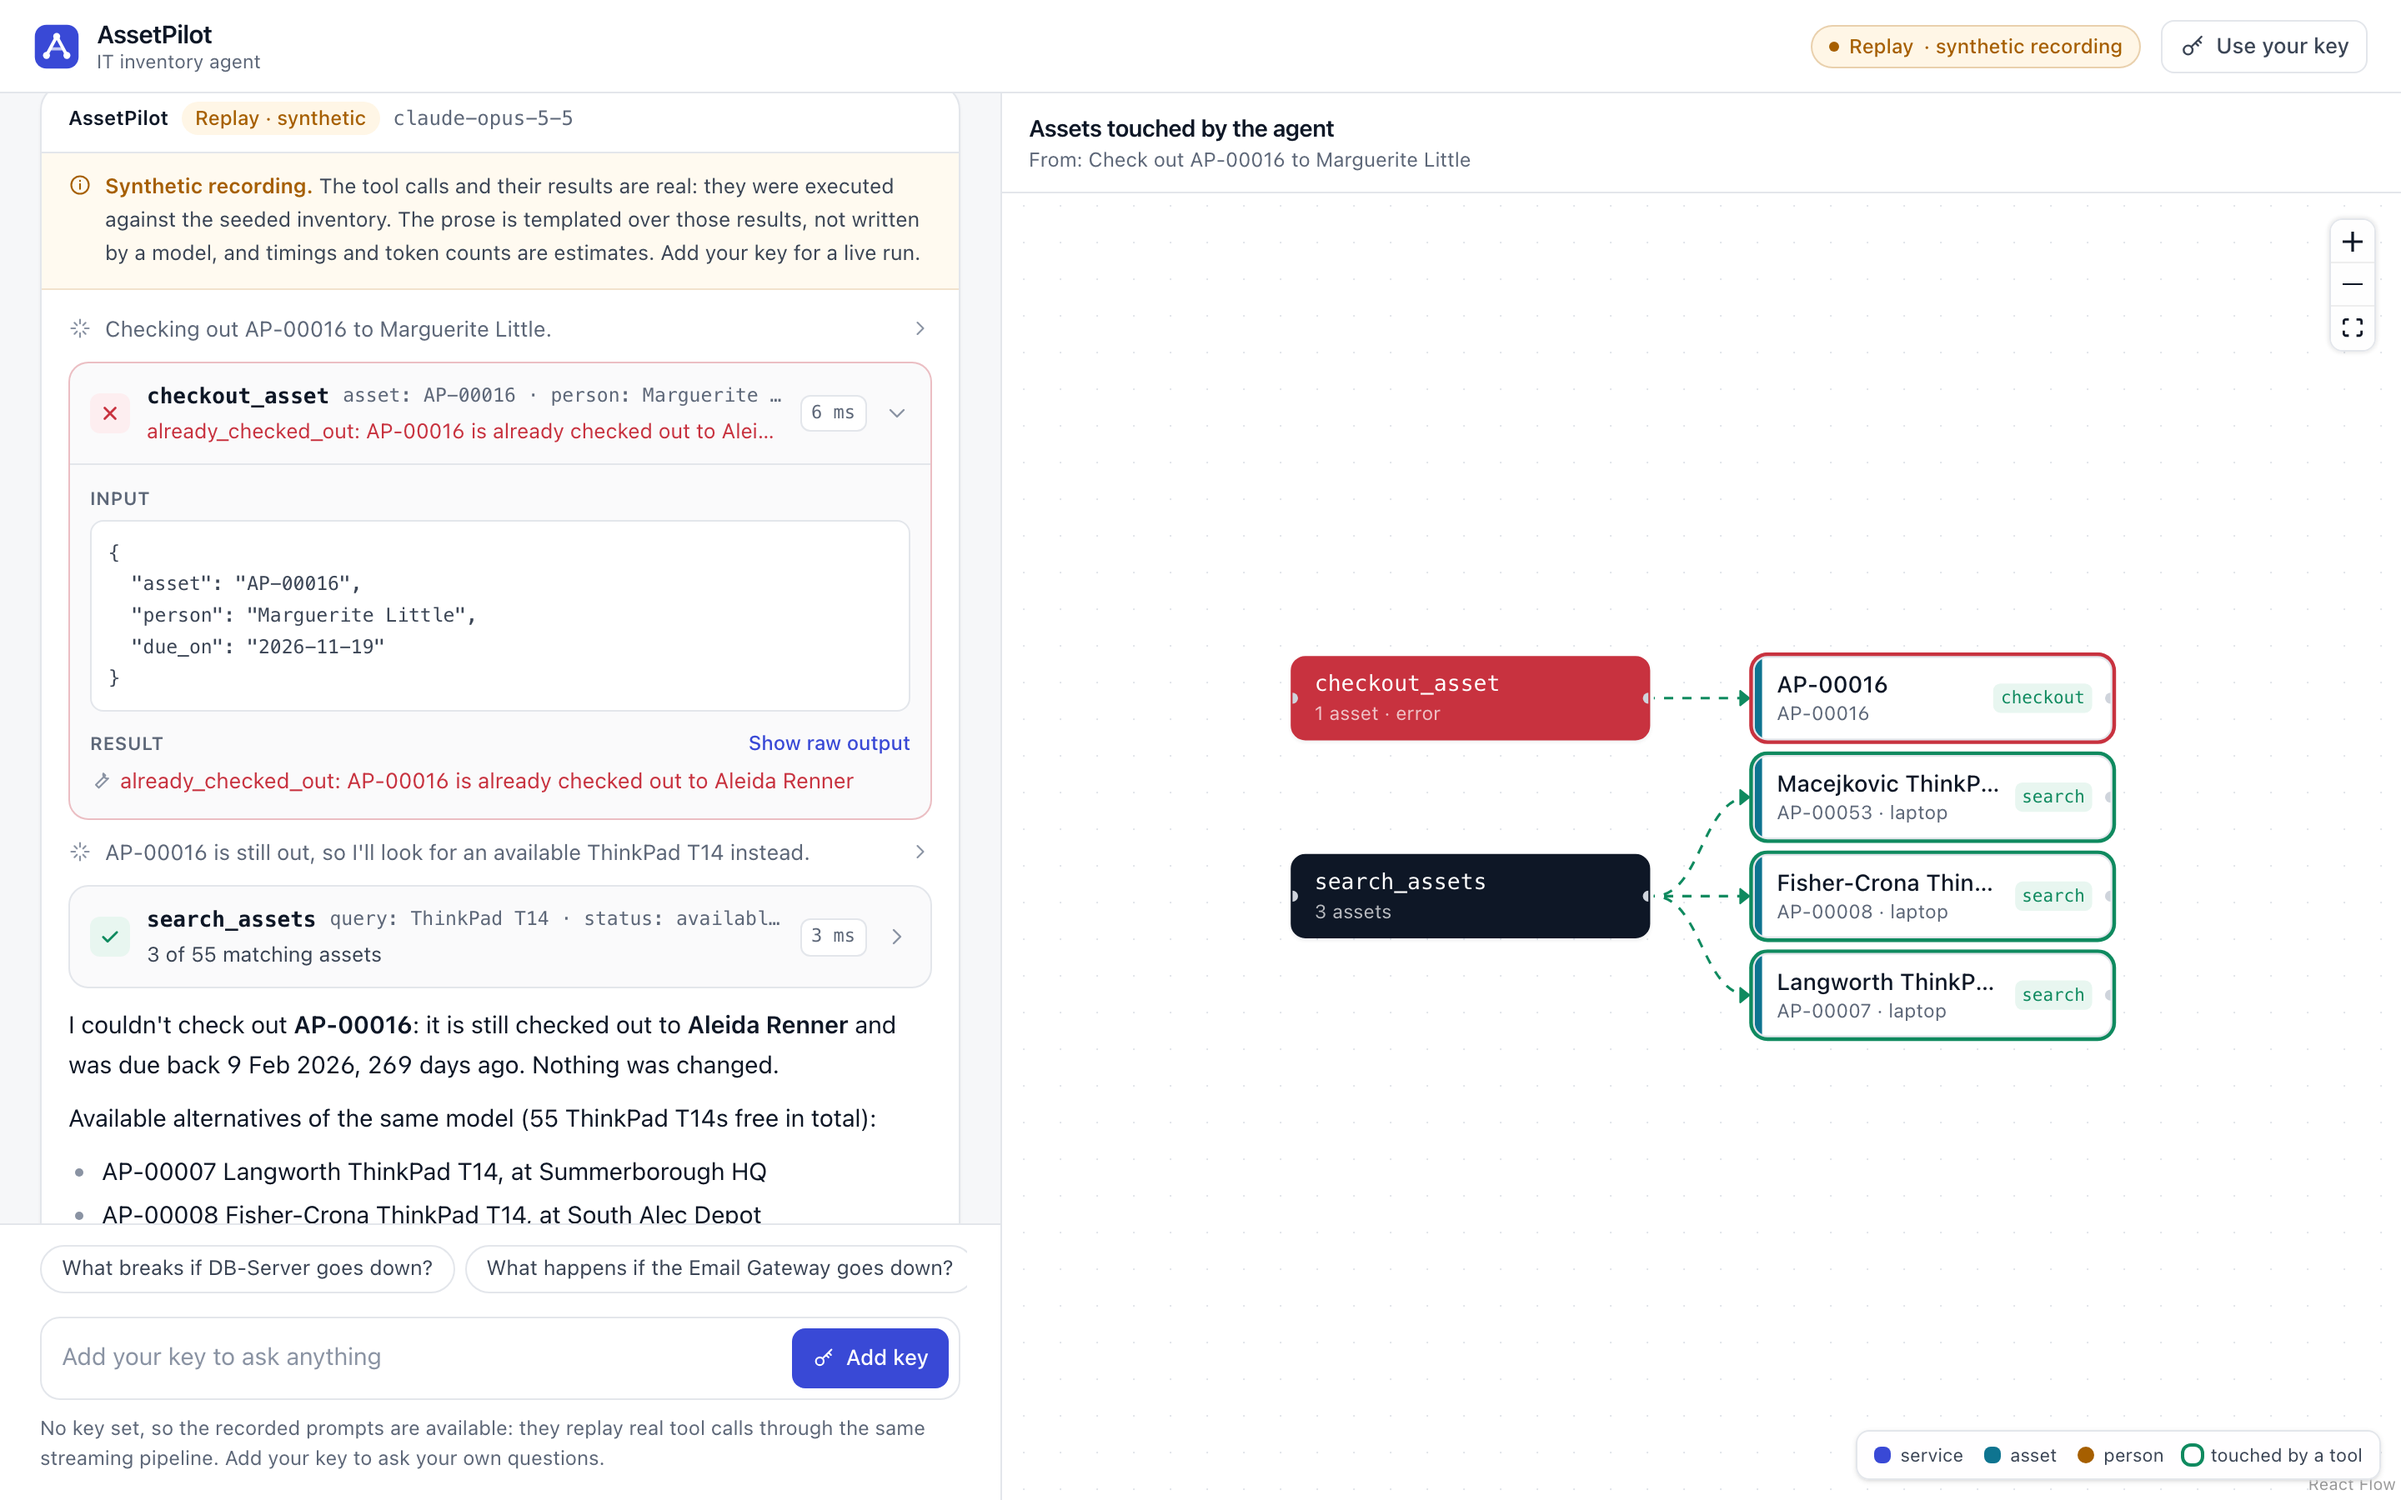
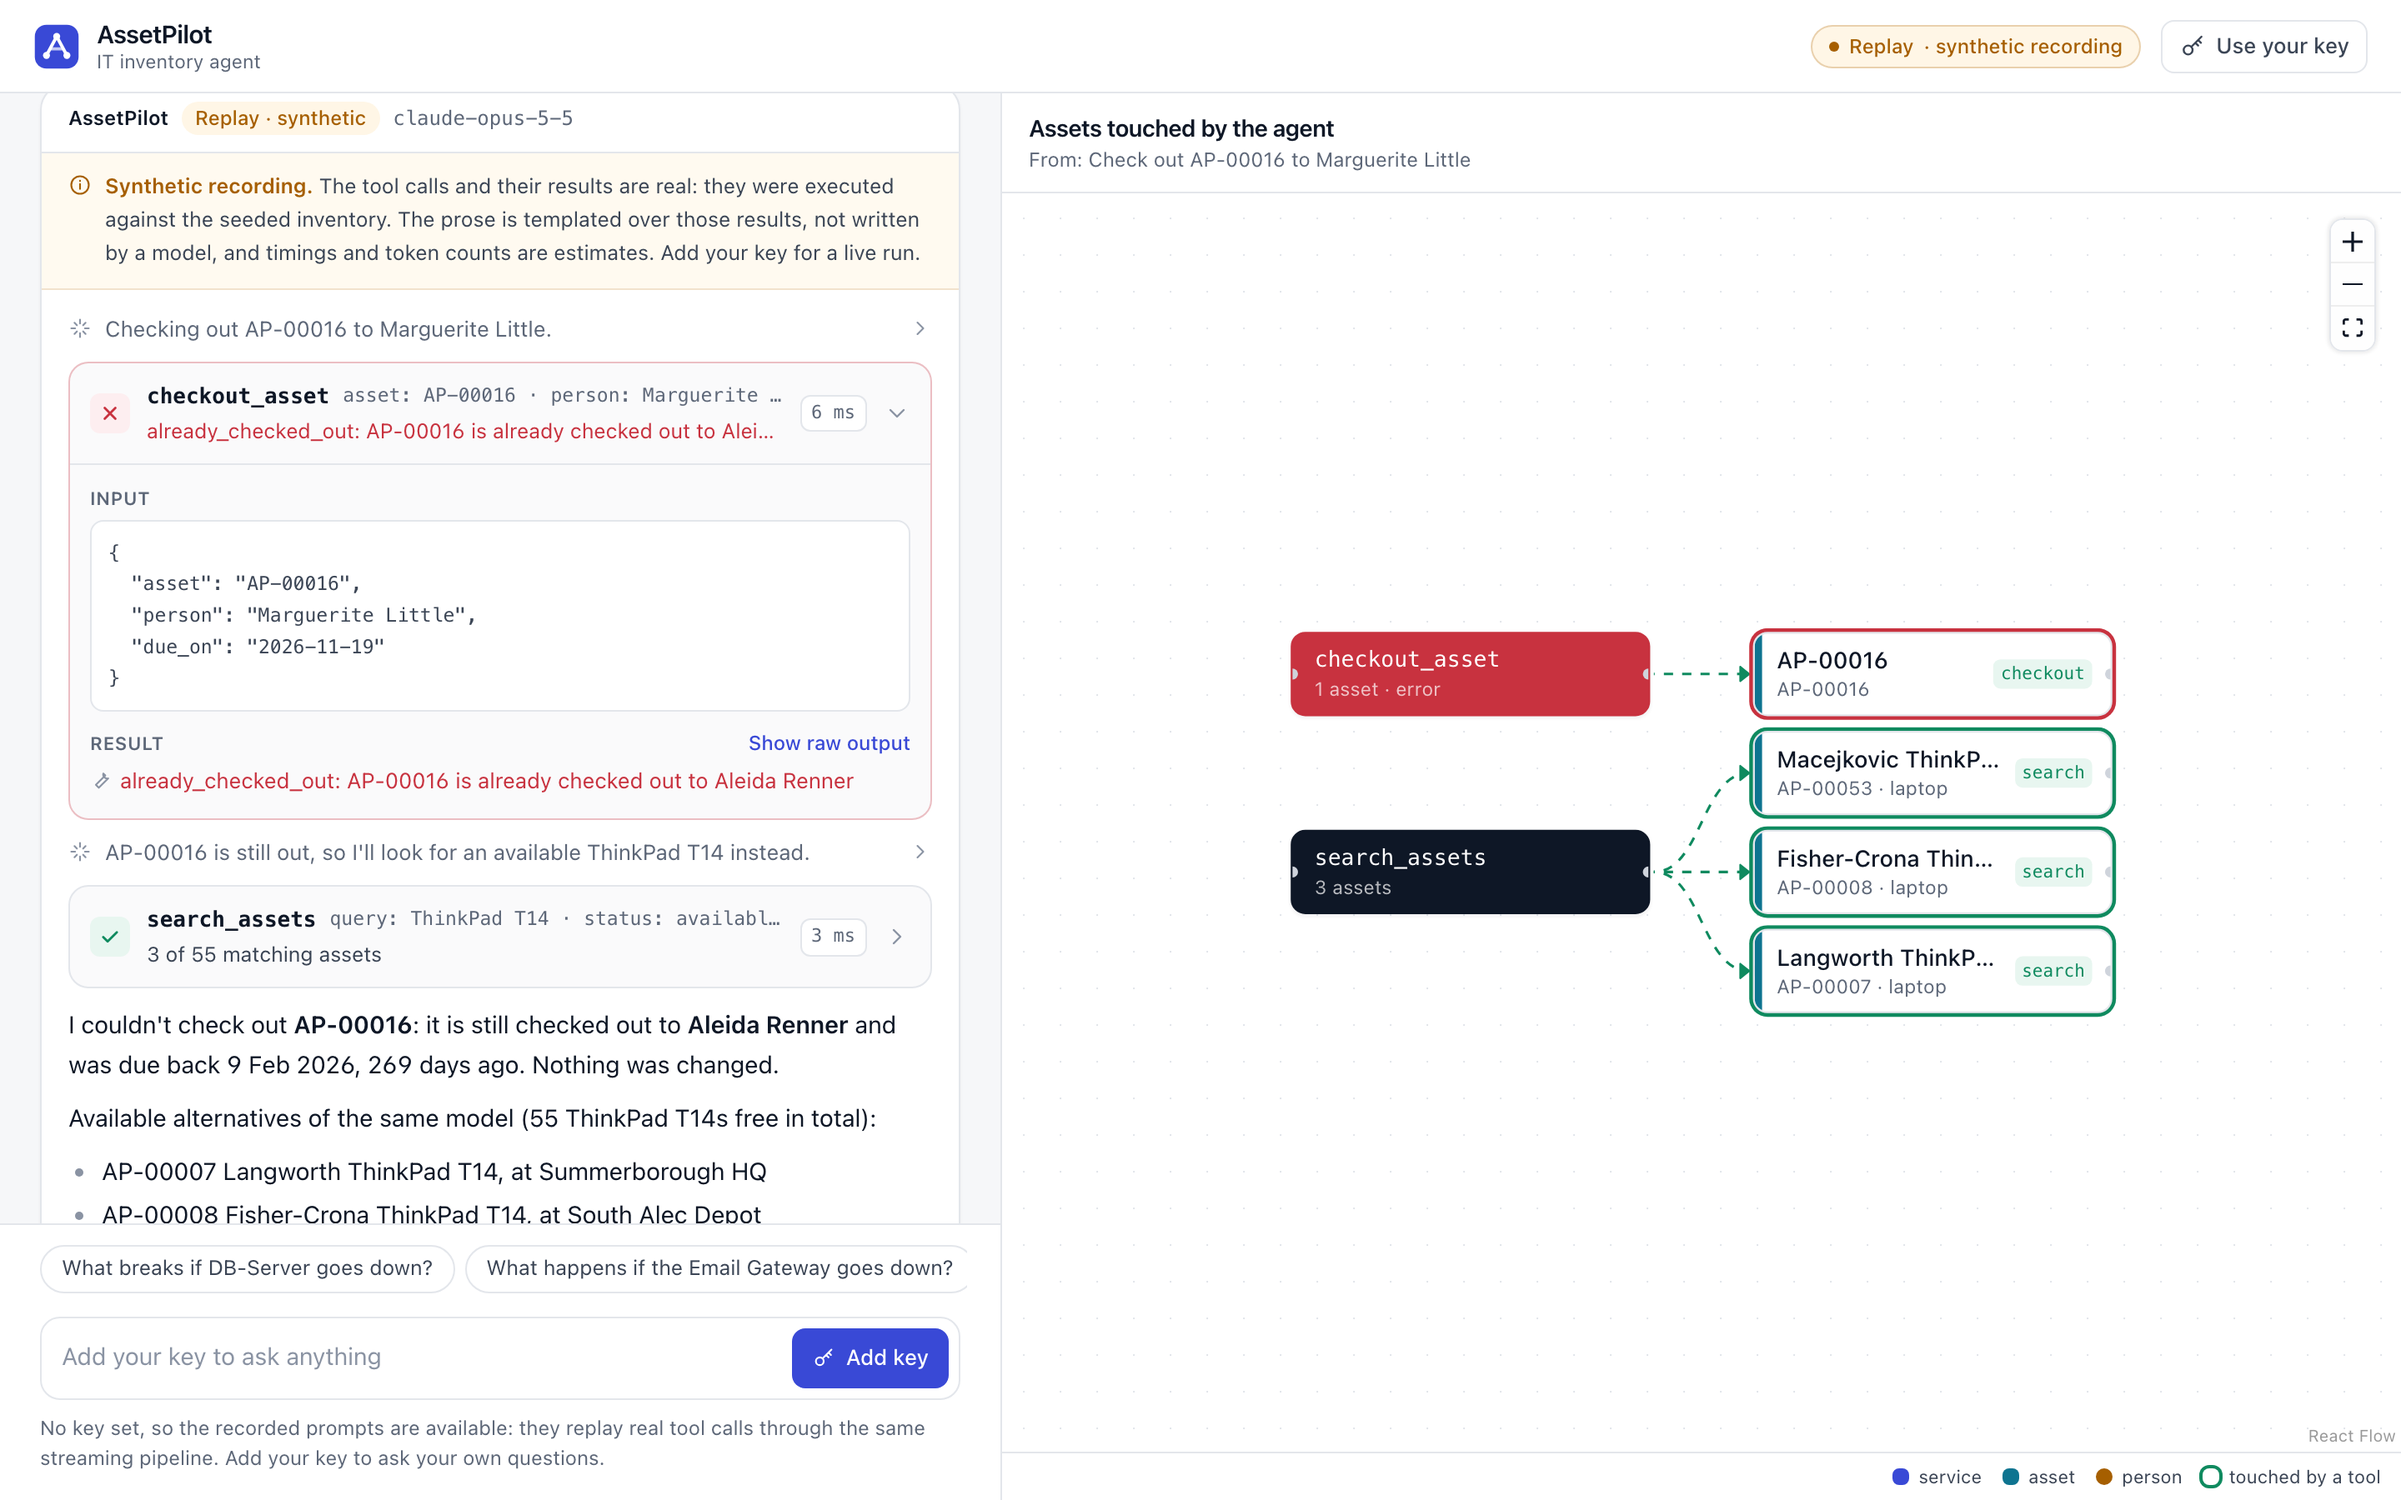
Move People to notify out of the graph canvas into a collapsible side column
The overlay covered the first-hop nodes at desktop width. It is now a column beside
the canvas (a drawer under it below lg), the legend is a footer, and the canvas
re-fits on resize. npm run screenshots now fails if any node is outside the canvas or
under an overlay; screenshots retaken.

diff --git a/frontend/src/components/GraphPanel.tsx b/frontend/src/components/GraphPanel.tsx
@@ -1,4 +1,4 @@
-import { memo, useEffect, useMemo, useState } from "react";
+import { memo, useEffect, useMemo, useRef, useState } from "react";
 import {
   Background,
   Controls,
@@ -95,26 +95,29 @@ function GraphPanelInner({ run, focusedTool, onTryPrompt, canTry }: Props) {
         )}
       </div>
 
-      <div className="relative min-h-0 flex-1">
-        {model ? (
-          <FlowCanvas model={model} focusedTool={focusedTool} />
-        ) : loadingEdges ? (
-          <div className="grid h-full place-items-center text-sm text-muted">
-            <span className="inline-flex items-center gap-2">
-              <Spinner className="size-4 text-brand" /> Resolving dependency edges…
-            </span>
-          </div>
-        ) : (
-          <EmptyGraph run={run} onTryPrompt={onTryPrompt} canTry={canTry} />
-        )}
-        {model && <Legend model={model} />}
+      {/* The canvas and the people column sit side by side (stacked below lg), so the list never covers nodes. */}
+      <div className="flex min-h-0 flex-1 flex-col lg:flex-row">
+        <div className="relative min-h-[360px] min-w-0 flex-1 lg:min-h-0">
+          {model ? (
+            <FlowCanvas model={model} focusedTool={focusedTool} />
+          ) : loadingEdges ? (
+            <div className="grid h-full place-items-center text-sm text-muted">
+              <span className="inline-flex items-center gap-2">
+                <Spinner className="size-4 text-brand" /> Resolving dependency edges…
+              </span>
+            </div>
+          ) : (
+            <EmptyGraph run={run} onTryPrompt={onTryPrompt} canTry={canTry} />
+          )}
+          {model?.source === "impact" && !model.edgesKnown && (
+            <p className="absolute top-3 left-1/2 -translate-x-1/2 rounded-md border border-warn/25 bg-warn-soft px-2 py-1 text-[11.5px] text-warn">
+              Dependency edges unavailable: nodes are laid out by hop distance.
+            </p>
+          )}
+        </div>
         {model && model.people.length > 0 && <PeopleList model={model} />}
-        {model?.source === "impact" && !model.edgesKnown && (
-          <p className="absolute top-3 left-1/2 -translate-x-1/2 rounded-md border border-warn/25 bg-warn-soft px-2 py-1 text-[11.5px] text-warn">
-            Dependency edges unavailable: nodes are laid out by hop distance.
-          </p>
-        )}
       </div>
+      {model && <Legend model={model} />}
     </section>
   );
 }
@@ -158,26 +161,40 @@ function EmptyGraph({ run, onTryPrompt, canTry }: { run: Run | undefined; onTryP
   );
 }
 
+// A collapsible column to the right of the canvas at desktop widths, a drawer under it on narrow screens.
+// The canvas re-fits when it changes size (FlowCanvas), so opening it never hides a node.
 function PeopleList({ model }: { model: GraphModel }) {
   const [open, setOpen] = useState(false);
   const total = model.counts?.people ?? model.people.length;
+  const count = model.people.length < total ? `${model.people.length} of ${total}` : String(total);
   return (
-    <div className="absolute top-3 left-3 w-[250px] overflow-hidden rounded-lg border border-line bg-surface/95 shadow-sm backdrop-blur">
+    <aside
+      aria-label="People to notify"
+      data-panel="people"
+      className={`flex shrink-0 flex-col border-t border-line bg-surface lg:border-t-0 lg:border-l ${
+        open ? "max-h-[240px] lg:max-h-none lg:w-[260px]" : "lg:w-11"
+      }`}
+    >
       <button
         type="button"
         onClick={() => setOpen((o) => !o)}
         aria-expanded={open}
-        className="flex w-full items-center gap-2 px-3 py-2 text-left text-[12px] font-semibold text-ink"
+        aria-controls="people-to-notify-list"
+        title={open ? "Collapse people to notify" : "Show people to notify"}
+        className={`flex w-full items-center gap-2 px-3 py-2 text-left text-[12px] font-semibold text-ink hover:bg-canvas ${
+          open ? "" : "lg:h-full lg:flex-col lg:justify-start lg:px-0 lg:py-3"
+        }`}
       >
-        <span className="size-2 rounded-full bg-node-person" aria-hidden />
-        People to notify
-        <span className="font-normal text-muted">
-          {model.people.length < total ? `${model.people.length} of ${total}` : total}
+        <span className="size-2 shrink-0 rounded-full bg-node-person" aria-hidden />
+        <span className={open ? "" : "lg:[writing-mode:vertical-rl]"}>
+          People to notify <span className="font-normal text-muted">{count}</span>
         </span>
-        <span className="ml-auto text-[11px] font-medium text-brand">{open ? "Hide" : "Show"}</span>
+        <span className={`ml-auto text-[11px] font-medium text-brand ${open ? "" : "lg:ml-0 lg:[writing-mode:vertical-rl]"}`}>
+          {open ? "Hide" : "Show"}
+        </span>
       </button>
       {open && (
-        <ul className="max-h-[320px] overflow-y-auto border-t border-line px-3 py-1.5 text-[12px]">
+        <ul id="people-to-notify-list" className="min-h-0 flex-1 overflow-y-auto border-t border-line px-3 py-1.5 text-[12px]">
           {model.people.map((p) => (
             <li key={p.name} className="py-1">
               <span className="font-medium text-ink">{p.name}</span> <span className="text-muted">· {p.department}</span>
@@ -186,14 +203,14 @@ function PeopleList({ model }: { model: GraphModel }) {
           ))}
         </ul>
       )}
-    </div>
+    </aside>
   );
 }
 
 function Legend({ model }: { model: GraphModel }) {
   const touched = model.nodes.some((n) => n.touchedBy.length > 0);
   return (
-    <div className="pointer-events-none absolute right-3 bottom-3 flex flex-wrap items-center justify-end gap-x-3 gap-y-1 rounded-lg border border-line bg-surface/90 px-2.5 py-1.5 text-[11px] text-ink-2 shadow-sm backdrop-blur">
+    <div className="flex flex-wrap items-center justify-end gap-x-3 gap-y-1 border-t border-line bg-surface px-3 py-1.5 text-[11px] text-ink-2">
       {model.source === "impact" && (
         <span className="inline-flex items-center gap-1.5">
           <span className="size-2.5 rounded-sm bg-bad" /> failing
@@ -228,6 +245,7 @@ const nodeTypes = { entity: memo(EntityNode) };
 function FlowCanvas({ model, focusedTool }: { model: GraphModel; focusedTool: string | null }) {
   const positions = useMemo(() => layoutGraph(model), [model]);
   const { fitView } = useReactFlow();
+  const wrapper = useRef<HTMLDivElement>(null);
 
   const nodes: FlowNode[] = useMemo(
     () =>
@@ -257,24 +275,42 @@ function FlowCanvas({ model, focusedTool }: { model: GraphModel; focusedTool: st
     return () => cancelAnimationFrame(id);
   }, [model, fitView]);
 
+  // ...and when the canvas changes size (the people column opening or closing, a window resize).
+  useEffect(() => {
+    const el = wrapper.current;
+    if (!el || typeof ResizeObserver === "undefined") return;
+    let frame = 0;
+    const ro = new ResizeObserver(() => {
+      cancelAnimationFrame(frame);
+      frame = requestAnimationFrame(() => fitView({ padding: 0.12, duration: 200, maxZoom: 1.1 }));
+    });
+    ro.observe(el);
+    return () => {
+      ro.disconnect();
+      cancelAnimationFrame(frame);
+    };
+  }, [fitView]);
+
   return (
-    <ReactFlow
-      nodes={nodes}
-      edges={edges}
-      nodeTypes={nodeTypes}
-      fitView
-      fitViewOptions={{ padding: 0.12, maxZoom: 1.1 }}
-      minZoom={0.2}
-      maxZoom={2}
-      nodesDraggable={false}
-      nodesConnectable={false}
-      elementsSelectable={false}
-      proOptions={{ hideAttribution: false }}
-      aria-label="Dependency graph canvas"
-    >
-      <Background gap={20} size={1} color="#dde1e7" />
-      <Controls showInteractive={false} position="top-right" />
-    </ReactFlow>
+    <div ref={wrapper} className="absolute inset-0">
+      <ReactFlow
+        nodes={nodes}
+        edges={edges}
+        nodeTypes={nodeTypes}
+        fitView
+        fitViewOptions={{ padding: 0.12, maxZoom: 1.1 }}
+        minZoom={0.2}
+        maxZoom={2}
+        nodesDraggable={false}
+        nodesConnectable={false}
+        elementsSelectable={false}
+        proOptions={{ hideAttribution: false }}
+        aria-label="Dependency graph canvas"
+      >
+        <Background gap={20} size={1} color="#dde1e7" />
+        <Controls showInteractive={false} position="top-right" />
+      </ReactFlow>
+    </div>
   );
 }
 

diff --git a/README.md b/README.md
@@ -225,7 +225,7 @@ the agent's work, and a live dependency graph of what its tools touch.
   failing node, the impacted services and assets by hop distance, and an overflow node for whatever is
   beyond the tool's 25-item lists. Edges come from `GET /api/impact/:type/:id`, which returns the subgraph
   with its `edges`; only shortest-path edges are drawn (the rest are counted in the legend), which keeps
-  ~60 nodes readable. People to notify are listed beside the graph, and can be drawn as nodes. Assets
+  ~60 nodes readable. People to notify are listed in a collapsible column beside the graph (a drawer below it on narrow screens), never over it; the canvas re-fits when the column opens. They can also be drawn as nodes. Assets
   touched by the other tools (search, check-out/in, maintenance) are highlighted, anchored on a node per
   tool call; a failed call is marked red. Hovering a tool card highlights the nodes it produced.
 - **BYOK.** The settings dialog keeps the key in `sessionStorage` (this tab only) and sends it as
@@ -250,8 +250,8 @@ page URL to replay faster.
 ```sh
 npm test               # Vitest: SSE parser, run reducer, graph model and layout (over db/replays/*.json)
 npm run lint && npm run typecheck && npm run build
-npm run screenshots    # headless Chromium against a running app: replays 4 prompts, checks BYOK headers
-                       # with a mocked API, fails on console errors; writes docs/screenshots/
+npm run screenshots    # headless Chromium against a running app: replays 4 prompts, checks BYOK headers,
+                       # fails on console errors or a graph node hidden under an overlay; writes docs/screenshots/
 ```
 
 `npm run screenshots` uses `playwright-core`; point `CHROMIUM_PATH` at a Chromium binary if Playwright's
